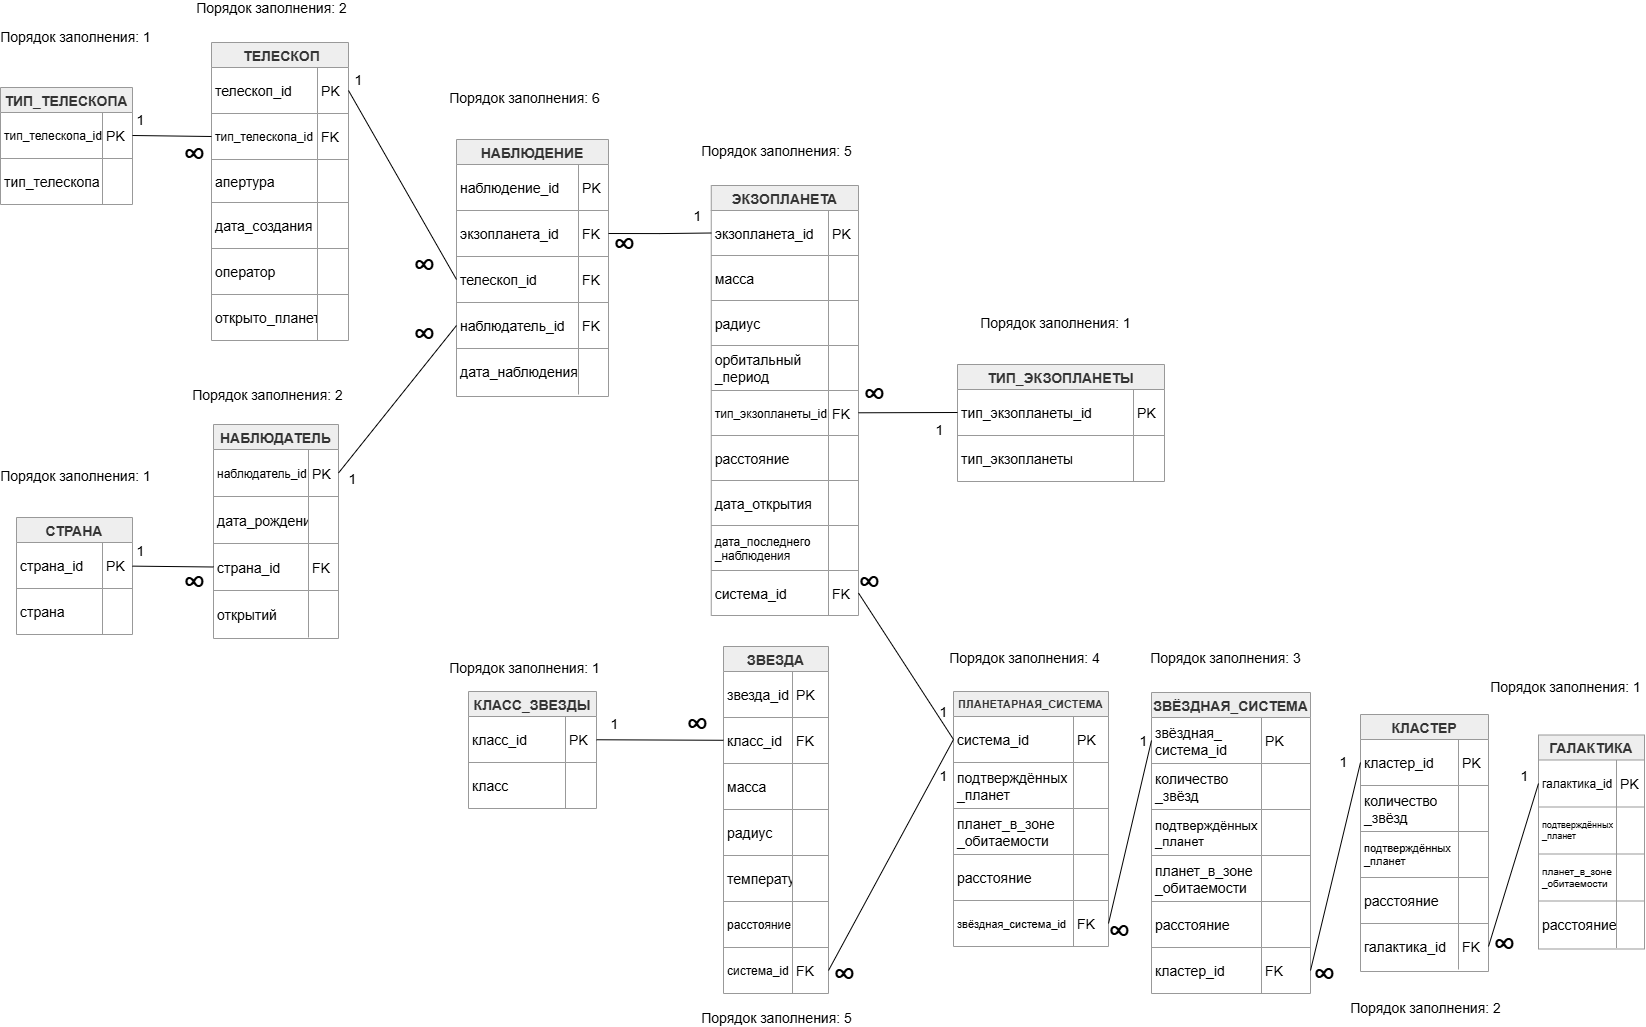
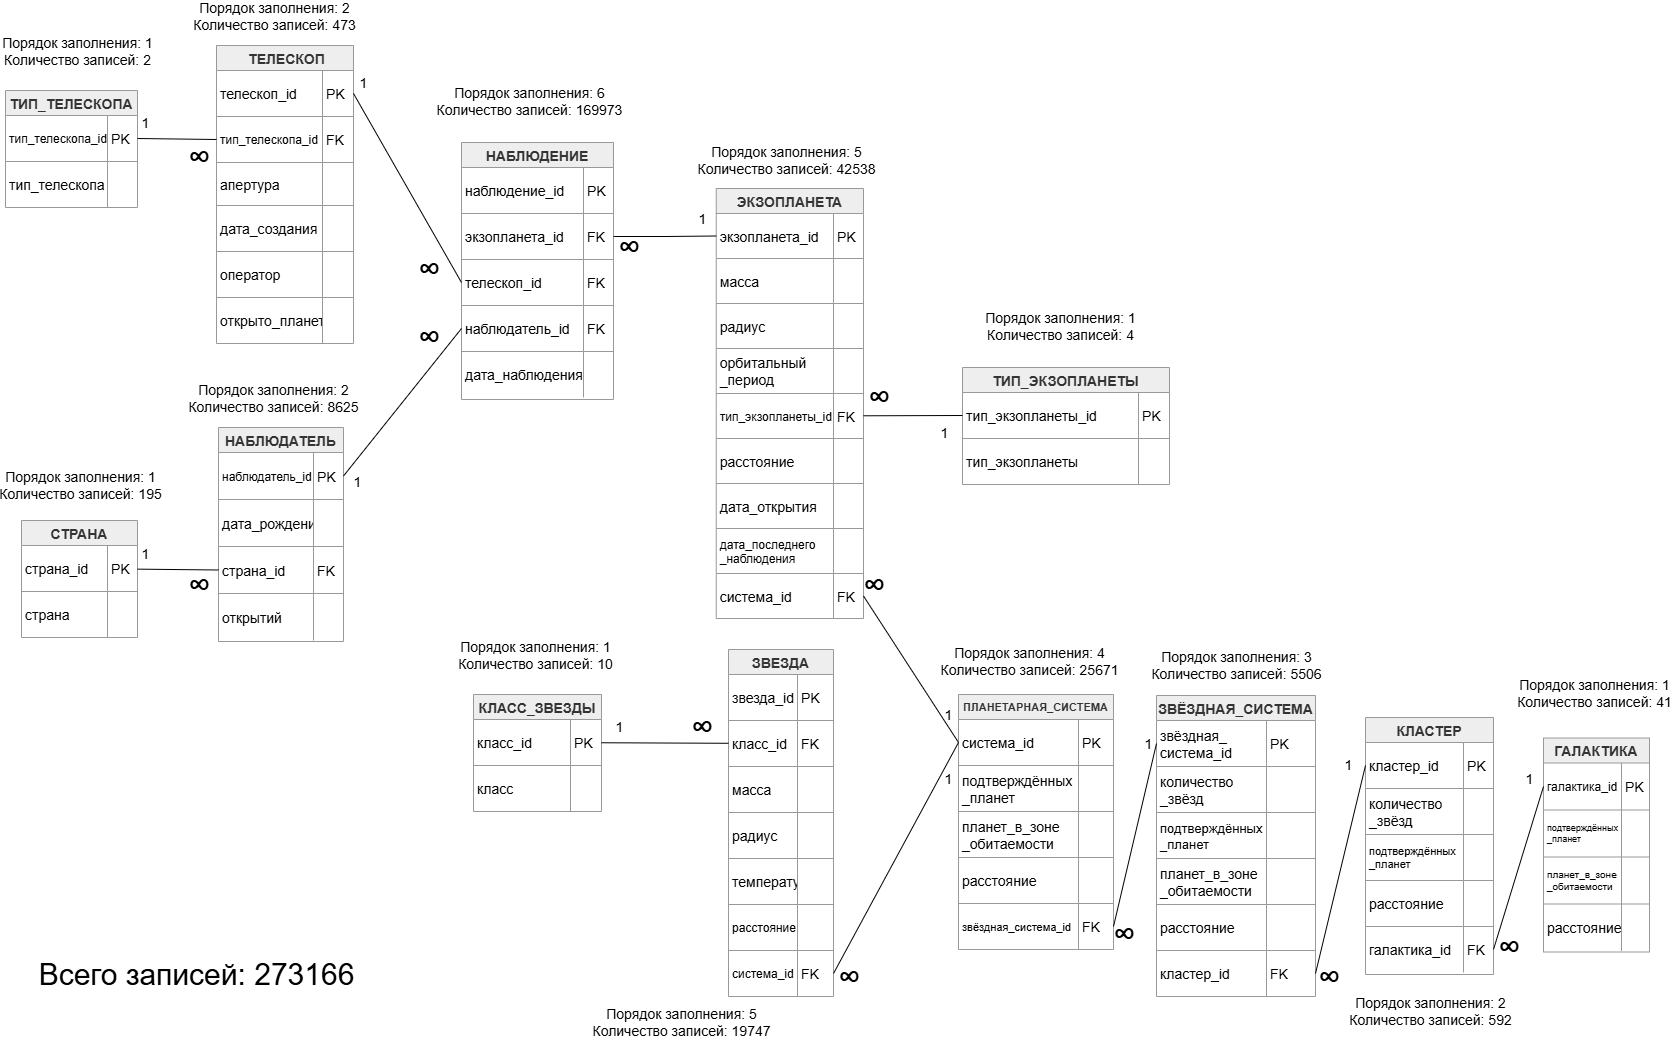
checkpoint: 2nd part accepted

diff --git a/docs/report/cw.tex b/docs/report/cw.tex
@@ -748,7 +748,7 @@ cur = conn.cursor()
 Листинг 1 --- Подключение к базе данных
 \end{center}
 
-Перед генерацией новых данных выполняется очистка таблиц с помощью оператора \textit{TRUNCATE}. Таблицы перечислены в порядке от наиболее зависимых к родительским, а параметр \textit{CASCADE} позволяет удалить связанные записи, не нарушая ограничения внешних ключей.
+Перед генерацией новых данных выполняется очистка таблиц с помощью оператора \textit{TRUNCATE}. Таблицы перечислены в порядке от наиболее зависимых к родительским, а параметр \textit{CASCADE} позволяет завершать \textit{TRUNCATE} без ошибок, убирая связи между таблицами, чтобы не возникали ошибки.
 
 \begin{Code}
 cur.execute("""
@@ -790,7 +790,7 @@ def make_id(prefix, number, width=5):
 Листинг 3 --- Вспомогательные функции генерации
 \end{center}
 
-Количество записей в основных таблицах выбирается случайно. При этом программа контролирует итоговый объём данных: сумма записей должна находиться в диапазоне от 200~000 до 300~000. Количество наблюдений оценивается приблизительно как произведение количества экзопланет на среднее число наблюдений для одной экзопланеты.
+Количество записей в основных таблицах выбирается случайно. При этом программа контролирует итоговый объём данных: сумма записей должна находиться в диапазоне от 200~000 до 300~000 (задано константами). Количество наблюдений оценивается приблизительно как произведение количества экзопланет на среднее число наблюдений для одной экзопланеты.
 
 \begin{Code}
 TARGET_MIN = 200_000
@@ -880,7 +880,7 @@ for i in range(1, GALAXIES_COUNT + 1):
     cur.execute("""
         INSERT INTO galaxy
         (galaxy_id, conf_plan, hab_plan, dist)
-        VALUES (%s, %s, %s, %s);
+        VALUES (\%s, \%s, \%s, \%s);
     """, (
         galaxy_id,
         conf_plan,
@@ -901,7 +901,7 @@ for i in range(1, GALAXIES_COUNT + 1):
 cur.execute("""
     INSERT INTO telescope
     (tele_id, tele_type, aper, com_year, oper, discov_plan)
-    VALUES (%s, %s, %s, %s, %s, %s);
+    VALUES (\%s, \%s, \%s, \%s, \%s, \%s);
 """, (
     tele_id,
     tele_type,
@@ -922,7 +922,7 @@ cur.execute("""
 cur.execute("""
     INSERT INTO observer
     (observer_id, bday, country, discovs)
-    VALUES (%s, %s, %s, %s);
+    VALUES (\%s, \%s, \%s, \%s);
 """, (
     observer_id,
     random_date(date(1930, 1, 1), date(2005, 12, 31)),
@@ -935,13 +935,13 @@ cur.execute("""
 Листинг 9 --- Вставка наблюдателя
 \end{center}
 
-При создании звёздных скоплений используется внешний ключ \textit{galaxy\_id}. Для этого идентификаторы ранее созданных галактик сохраняются в списке \textit{galaxy\_ids}, после чего случайный идентификатор выбирается из этого списка.
+При создании звёздных скоплений используется внешний ключ \textit{galaxy\_id}. Для этого идентификаторы ранее созданных галактик сохраняются в списке \textit{galaxy\_ids}, после чего выбираются идентификаторы оттуда.
 
 \begin{Code}
 cur.execute("""
     INSERT INTO cluster
     (cluster_id, stars_count, conf_plan, hab_plan, dist, galaxy_id)
-    VALUES (%s, %s, %s, %s, %s, %s);
+    VALUES (\%s, \%s, \%s, \%s, \%s, \%s);
 """, (
     cluster_id,
     random.randint(10, 100000),
@@ -972,7 +972,7 @@ for cluster_id in cluster_ids:
     cur.execute("""
         INSERT INTO stellar_system
         (stellar_id, stars_count, conf_plan, hab_plan, dist, cluster_id)
-        VALUES (%s, %s, %s, %s, %s, %s);
+        VALUES (\%s, \%s, \%s, \%s, \%s, \%s);
     """, (
         stellar_id,
         random.randint(1, 8),
@@ -991,7 +991,7 @@ for cluster_id in cluster_ids:
 Листинг 11 --- Вставка звёздных систем
 \end{center}
 
-На четвёртом уровне создаются планетарные системы. Сначала для каждого звёздного скопления создаётся минимум одна планетарная система, связанная с одной из звёздных систем этого скопления. Затем оставшиеся планетарные системы распределяются случайно между уже существующими звёздными системами.
+На четвёртом уровне создаются планетарные системы. Для каждого звёздного скопления создаётся минимум одна планетарная система, связанная с одной из звёздных систем этого скопления. Это гарантирует логичность и корректность распределения данных. %Затем оставшиеся планетарные системы распределяются случайно между уже существующими звёздными системами.
 
 \begin{Code}
 plan_system_ids = []
@@ -1009,7 +1009,7 @@ for cluster_id in cluster_ids:
     cur.execute("""
         INSERT INTO plan_system
         (system_id, conf_plan, hab_plan, distance, stell_sys_id)
-        VALUES (%s, %s, %s, %s, %s);
+        VALUES (\%s, \%s, \%s, \%s, \%s);
     """, (
         system_id,
         conf_plan,
@@ -1045,7 +1045,7 @@ for cluster_id in cluster_ids:
 Листинг 13 --- Создание минимум десяти звёзд на скопление
 \end{center}
 
-Параметры звезды зависят от её спектрального класса. Для каждого класса задаются собственные диапазоны массы, радиуса и температуры. Это позволяет получать более правдоподобные данные, чем при полностью равномерной генерации всех физических характеристик.
+Параметры звезды зависят от её спектрального класса. Для каждого класса задаются собственные диапазоны массы, радиуса и температуры. %Это позволяет получать более правдоподобные данные, чем при полностью равномерной генерации всех физических характеристик.
 
 \begin{Code}
 def generate_star_params():
@@ -1059,12 +1059,12 @@ def generate_star_params():
         mass = random_decimal(2.1, 16)
         radius = random_decimal(1.8, 6)
         temp = random.randint(10000, 30000)
-
+...
     return star_class, mass, radius, temp
 \end{Code}
 
 \begin{center}
-Листинг 14 --- Генерация параметров звезды
+Листинг 14 --- Генерация параметров звезды (полный код см. в разделе \hyperref[b][Приложение Б]).
 \end{center}
 
 Экзопланеты также генерируются с учётом типа. Для газовых гигантов, нептуновых планет, суперземель и планет земного типа используются разные диапазоны массы и радиуса. Дата последнего наблюдения генерируется так, чтобы она была не раньше даты открытия.
@@ -1120,8 +1120,8 @@ while unique_key in used_observations and attempts < 20:
 for tele_id, count in telescope_discovs.items():
     cur.execute("""
         UPDATE telescope
-        SET discov_plan = %s
-        WHERE tele_id = %s;
+        SET discov_plan = \%s
+        WHERE tele_id = \%s;
     """, (
         count,
         tele_id
@@ -1130,8 +1130,8 @@ for tele_id, count in telescope_discovs.items():
 for observer_id, count in observer_discovs.items():
     cur.execute("""
         UPDATE observer
-        SET discovs = %s
-        WHERE observer_id = %s;
+        SET discovs = \%s
+        WHERE observer_id = \%s;
     """, (
         count,
         observer_id
@@ -1393,6 +1393,7 @@ CREATE TABLE observation (
 
 \section*{Приложение Б. Исходный текст программы генерации тестовых данных}
 \addcontentsline{toc}{section}{Приложение Б. Исходный текст программы генерации тестовых данных}
+\label{b}
 
 \begin{Code}
 import psycopg2